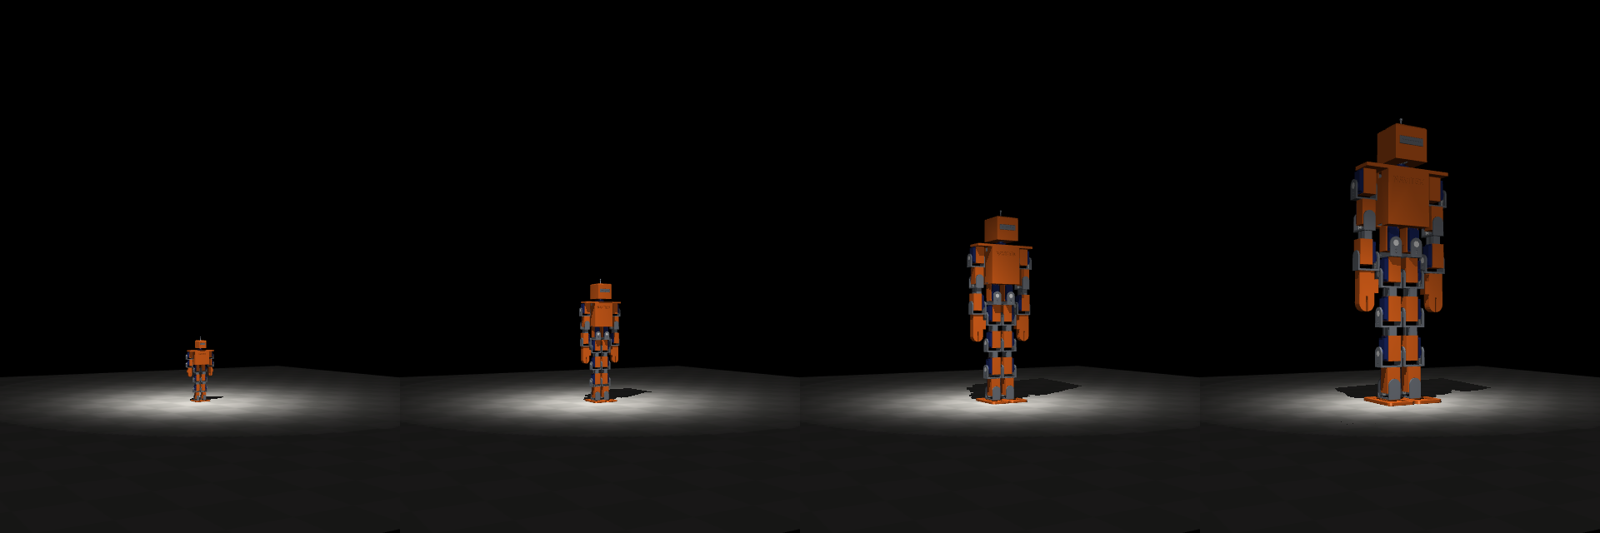
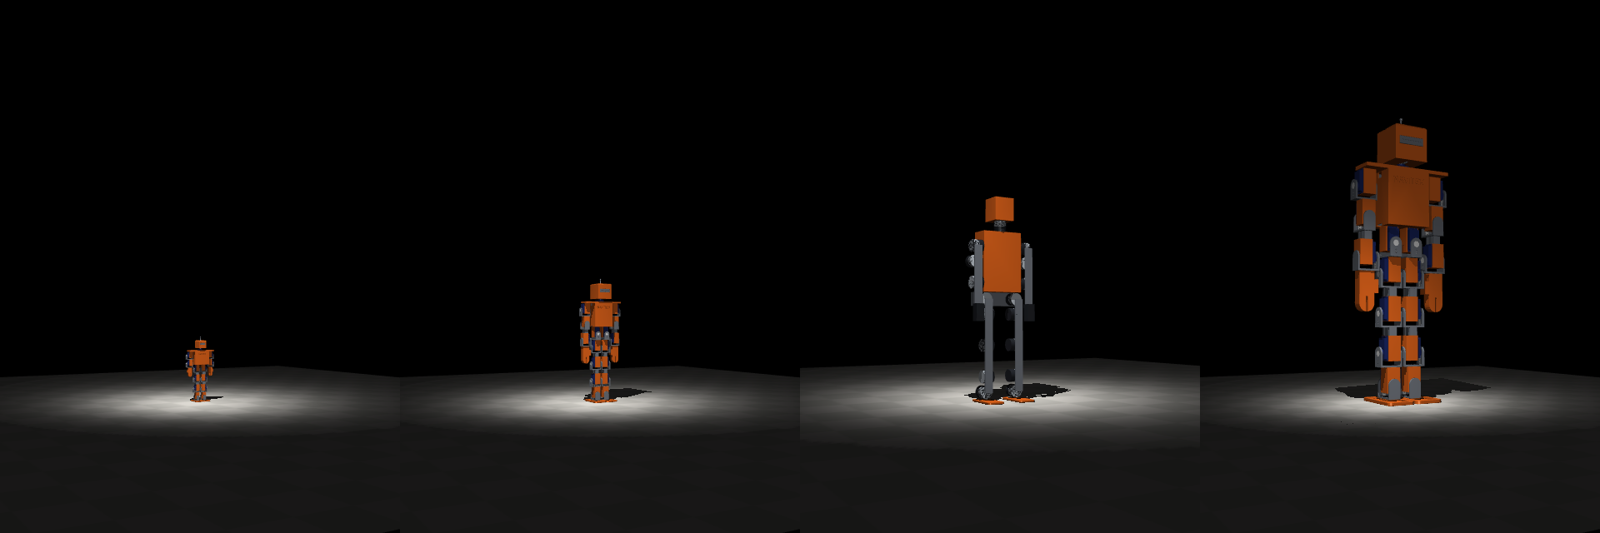
Navitek N1, N2, N3 : audit des chiffres (B29) — total de N1 recalculé (484 à 577 $), plages de couple de N2 tirées des JSON, coût tout imprimé de N3 (1 000 à 3 300 $), image des quatre robots avec le N2 de la CAO, textes périmés à jour

Changed region(s): [[0.5, 0.3602, 0.75, 0.8105]]

diff --git a/navitek/n2/index.html b/navitek/n2/index.html
@@ -4,13 +4,13 @@
 <meta charset="UTF-8">
 <meta name="viewport" content="width=device-width, initial-scale=1.0">
 <title>Navitek N2, concept d'un humanoïde d'un mètre à actionneurs imprimés</title>
-<meta name="description" content="Navitek N2, concept : un humanoïde d'environ un mètre dont les actionneurs à réducteur cycloïdal 16:1 s'impriment. Un actionneur et une jambe en CAO, le couple de chaque articulation tiré d'une simulation. Rien n'est imprimé.">
+<meta name="description" content="Navitek N2, concept : un humanoïde d'environ un mètre dont les actionneurs à réducteur cycloïdal 16:1 s'impriment. L'actionneur et le robot entier en CAO, le couple de chaque articulation tiré d'une simulation. Rien n'est imprimé.">
 <link rel="icon" href="/favicon.svg" type="image/svg+xml">
 <link rel="icon" href="/favicon-32.png" type="image/png" sizes="32x32">
 <link rel="apple-touch-icon" href="/apple-touch-icon.png">
 <meta name="theme-color" content="#0b1f3a">
 <meta property="og:title" content="Navitek N2, concept d'un humanoïde d'un mètre">
-<meta property="og:description" content="Un actionneur imprimé à réducteur cycloïdal et une jambe, avec le couple demandé tiré d'une simulation. Concept, pas encore imprimé.">
+<meta property="og:description" content="Un actionneur imprimé à réducteur cycloïdal et le robot entier en CAO, avec le couple demandé tiré d'une simulation. Concept, pas encore imprimé.">
 <meta property="og:type" content="website">
 <meta property="og:url" content="https://ymiaconseil.com/navitek/n2/">
 <link rel="canonical" href="https://ymiaconseil.com/navitek/n2/">
@@ -201,7 +201,7 @@ footer p{margin:0;max-width:none}
     <p>À un mètre, <strong>le seul projet ouvert que nous ayons trouvé qui imprime ses actionneurs est le Berkeley Humanoid Lite</strong> (Chi et al., RSS 2025)&nbsp;:
       22 réducteurs cycloïdaux imprimés sur un plateau de 200&nbsp;mm, pour moins de 5&nbsp;000&nbsp;$&nbsp;US au total, environ 133&nbsp;$ l'actionneur au plus bas. Sa taille est donnée à
       environ un mètre et 16&nbsp;kg par un article, 80&nbsp;cm par un autre&nbsp;: nous ne l'avons pas vérifiée dans l'article. Les autres&nbsp;: l'Unitree R1 (1,21&nbsp;m, 4&nbsp;900 à 5&nbsp;900&nbsp;$, fermé),
-      Poppy (85&nbsp;cm, servos Dynamixel du commerce), K-Scale (Z-Bot de 40&nbsp;cm, K-Bot de 1,4&nbsp;m à 8&nbsp;999&nbsp;$).</p>
+      Poppy (83 à 85&nbsp;cm, servos Dynamixel du commerce), K-Scale (Z-Bot de 40 à 46&nbsp;cm, K-Bot de 1,4&nbsp;m à 8&nbsp;999&nbsp;$).</p>
 
     <h2>L'actionneur</h2>
     <p class="sous">Réducteur cycloïdal 16:1 &middot; boîtier de 72&nbsp;mm &middot; tient sur un plateau de 200&nbsp;mm</p>
@@ -221,7 +221,7 @@ footer p{margin:0;max-width:none}
 
     <h2>Le couple que la marche demande</h2>
     <p class="sous">Simulation à l'échelle &middot; couple moyen / pic en N·m, jambe gauche &middot; cahier R-040</p>
-    <p>Le modèle est <strong>le robot de N1 agrandi à un mètre</strong> (15&nbsp;kg, dont 550&nbsp;g estimés par actionneur), avec des actionneurs sans limite de couple&nbsp;: on mesure ce que le mouvement
+    <p>Le modèle est <strong>le robot de N1 agrandi à un mètre</strong> (14,7&nbsp;kg, dont 550&nbsp;g estimés par actionneur), avec des actionneurs sans limite de couple&nbsp;: on mesure ce que le mouvement
       <em>demande</em>. La même marche à quinze réglages que pour N1 a été cherchée trois fois sans plafond, puis avec un plafond de 55&nbsp;N·m, puis de 18&nbsp;N·m.
       Aucune marche ne tombe.</p>
     <figure class="video">
@@ -230,17 +230,18 @@ footer p{margin:0;max-width:none}
       <figcaption>Le robot de N1 agrandi, plafonné à 18&nbsp;N·m par articulation (graine 2)&nbsp;: 12&nbsp;s. Un pas lent.</figcaption>
     </figure>
     <div class="defile"><table><thead><tr><th>Série</th><th>Graine</th><th>Avance, 12 s</th><th>Hanche, côté</th><th>Hanche, avant</th><th>Genou</th><th>Cheville, avant</th><th>Cheville, côté</th></tr></thead><tbody><tr><td class="n">sans plafond</td><td class="n">1</td><td class="n">98&nbsp;cm</td><td class="n">41&nbsp;/&nbsp;131</td><td class="n">3&nbsp;/&nbsp;14</td><td class="n">3&nbsp;/&nbsp;20</td><td class="n">4&nbsp;/&nbsp;22</td><td class="n">10&nbsp;/&nbsp;57</td></tr><tr><td class="n">sans plafond</td><td class="n">2</td><td class="n">127&nbsp;cm</td><td class="n">41&nbsp;/&nbsp;135</td><td class="n">4&nbsp;/&nbsp;15</td><td class="n">4&nbsp;/&nbsp;14</td><td class="n">5&nbsp;/&nbsp;22</td><td class="n">8&nbsp;/&nbsp;47</td></tr><tr><td class="n">sans plafond</td><td class="n">3</td><td class="n">33&nbsp;cm</td><td class="n">22&nbsp;/&nbsp;66</td><td class="n">3&nbsp;/&nbsp;10</td><td class="n">4&nbsp;/&nbsp;8</td><td class="n">5&nbsp;/&nbsp;12</td><td class="n">7&nbsp;/&nbsp;38</td></tr><tr><td class="n">plafond 55 N·m</td><td class="n">1</td><td class="n">94&nbsp;cm</td><td class="n">24&nbsp;/&nbsp;55</td><td class="n">5&nbsp;/&nbsp;11</td><td class="n">5&nbsp;/&nbsp;13</td><td class="n">5&nbsp;/&nbsp;26</td><td class="n">9&nbsp;/&nbsp;55</td></tr><tr><td class="n">plafond 55 N·m</td><td class="n">2</td><td class="n">62&nbsp;cm</td><td class="n">5&nbsp;/&nbsp;14</td><td class="n">5&nbsp;/&nbsp;21</td><td class="n">5&nbsp;/&nbsp;19</td><td class="n">8&nbsp;/&nbsp;50</td><td class="n">4&nbsp;/&nbsp;21</td></tr><tr><td class="n">plafond 55 N·m</td><td class="n">3</td><td class="n">28&nbsp;cm</td><td class="n">21&nbsp;/&nbsp;55</td><td class="n">5&nbsp;/&nbsp;14</td><td class="n">3&nbsp;/&nbsp;8</td><td class="n">4&nbsp;/&nbsp;19</td><td class="n">6&nbsp;/&nbsp;21</td></tr><tr><td class="n">plafond 18 N·m</td><td class="n">1</td><td class="n">28&nbsp;cm</td><td class="n">8&nbsp;/&nbsp;18</td><td class="n">7&nbsp;/&nbsp;18</td><td class="n">8&nbsp;/&nbsp;17</td><td class="n">8&nbsp;/&nbsp;18</td><td class="n">4&nbsp;/&nbsp;18</td></tr><tr><td class="n">plafond 18 N·m</td><td class="n">2</td><td class="n">57&nbsp;cm</td><td class="n">10&nbsp;/&nbsp;18</td><td class="n">3&nbsp;/&nbsp;13</td><td class="n">3&nbsp;/&nbsp;10</td><td class="n">4&nbsp;/&nbsp;18</td><td class="n">5&nbsp;/&nbsp;18</td></tr><tr><td class="n">plafond 18 N·m</td><td class="n">3</td><td class="n">31&nbsp;cm</td><td class="n">5&nbsp;/&nbsp;15</td><td class="n">8&nbsp;/&nbsp;18</td><td class="n">7&nbsp;/&nbsp;14</td><td class="n">8&nbsp;/&nbsp;18</td><td class="n">3&nbsp;/&nbsp;10</td></tr></tbody></table></div>
-    <p class="sources">Les bras demandent au plus 2,7&nbsp;N·m et le cou 0,1&nbsp;N·m. Accroupi sur deux jambes à 90° de genou&nbsp;: le genou demande 3,6&nbsp;N·m en moyenne,
+    <p class="sources">Les bras demandent au plus 3,1&nbsp;N·m et le cou 0,1&nbsp;N·m. Accroupi sur deux jambes à 90° de genou&nbsp;: le genou demande 3,6&nbsp;N·m en moyenne,
       6,8 au pic. Modèle simplifié&nbsp;; masses d'actionneur et d'électronique estimées&nbsp;; marches réglées sur le modèle lui-même.</p>
 
     <h3>Ce que ça dit du réducteur imprimé</h3>
     <ul class="liste">
       <li><b>Ce qu'on a trouvé sur les réducteurs imprimés.</b><span>3,43&nbsp;N·m mesurés comme couple de service pour un 13:1 amateur&nbsp;; 18,3&nbsp;N·m au maximum pour un disque de PLA 24:1 (taille inconnue)&nbsp;;
         55&nbsp;N·m de pointe pour un 20:1 du projet OpenCycloid. Ce sont des chiffres de sources différentes, de tailles différentes, qu'on ne peut pas comparer au nôtre.</span></li>
-      <li><b>Les bras et le cou</b><span>demandent au plus 2,7&nbsp;N·m&nbsp;: à portée d'un réducteur imprimé.</span></li>
-      <li><b>La hanche de côté et les chevilles</b><span>demandent des moyennes de 5 à 41&nbsp;N·m et des pics de 15 à 135&nbsp;N·m&nbsp;: bien au-delà du couple de service trouvé. <strong>Il faut un banc, ou un réducteur
+      <li><b>Les bras et le cou</b><span>demandent au plus 3,1&nbsp;N·m&nbsp;: à portée d'un réducteur imprimé.</span></li>
+      <li><b>Les articulations les plus chargées.</b><span>La hanche de côté demande 5 à 41&nbsp;N·m en moyenne et 14 à 135&nbsp;N·m au pic&nbsp;; les chevilles, 3 à 10&nbsp;N·m
+        en moyenne et 10 à 57&nbsp;N·m au pic&nbsp;: au-delà du couple de service trouvé, surtout au pic. <strong>Il faut un banc, ou un réducteur
         du commerce à ces articulations.</strong></span></li>
-      <li><b>Le genou et la hanche d'avant</b><span>demandent 3 à 8&nbsp;N·m en moyenne&nbsp;: au-dessus de 3,4&nbsp;N·m, en dessous de 18&nbsp;N·m. Indécidable sur ces sources.</span></li>
+      <li><b>Le genou et la hanche d'avant</b><span>demandent 3 à 8&nbsp;N·m en moyenne&nbsp;: autour de 3,4&nbsp;N·m, en dessous de 18&nbsp;N·m. Indécidable sur ces sources.</span></li>
     </ul>
 
     <h2>Le robot entier, dessiné</h2>
@@ -262,7 +263,7 @@ footer p{margin:0;max-width:none}
         Les deux modèles diffèrent par plusieurs choses à la fois (masses, centre de masse, écart des pieds)&nbsp;: nous n'avons pas isolé la cause. <strong>Les deux chiffres sont à garder en tête.</strong></span></li>
       <li><b>La cheville d'avant</b><span>est maintenant la plus exposée au pic (19 à 28&nbsp;N·m sans plafond).</span></li>
       <li><b>Une marche fragile.</b><span>Rejouer les mêmes réglages après avoir changé de quelques pour cent l'inertie des segments a fait passer l'avance de 89 à 37&nbsp;cm. Ces couples sont l'ordre de grandeur
-        d'une marche par graine, pas un budget&nbsp;; une marche réglée sur huit variantes du modèle à la fois (électronique, frottement, inertie, raideur&hellip;) tient aux huit (quatre réglages sur quatre, 15 à 57&nbsp;cm en 12&nbsp;s, couples du même ordre)&nbsp;: elle est plus courte, mais elle se transporte mieux.</span></li>
+        d'une marche par graine, pas un budget&nbsp;; une marche réglée sur 8 variantes du modèle à la fois (électronique, frottement, inertie, raideur&hellip;) tient aux 8 (4 réglages sur 4, 17 à 57&nbsp;cm en 12&nbsp;s sur le modèle nominal, au moins 15&nbsp;cm sur chaque variante, couples du même ordre)&nbsp;: elle est plus courte, mais elle se transporte mieux.</span></li>
     </ul>
 
     <h2>Ce qu'on ne sait pas</h2>
@@ -275,13 +276,13 @@ footer p{margin:0;max-width:none}
     </ul>
 
     <h2>La sécurité d'abord</h2>
-    <p>À un mètre et quinze kilos, un robot qui tombe blesse. Aucune norme publiée ne dit à partir de quel couple ou de quelle masse un humanoïde est sûr (ISO 13482:2014 le dit elle-même pour les impacts&nbsp;; ISO 25785-1, pour les robots à
+    <p>À un mètre et quatorze kilos, un robot qui tombe blesse. Aucune norme publiée ne dit à partir de quel couple ou de quelle masse un humanoïde est sûr (ISO 13482:2014 le dit elle-même pour les impacts&nbsp;; ISO 25785-1, pour les robots à
       stabilité active, n'est pas encore publiée à notre connaissance). Navitek N2 ne se dira donc pas «&nbsp;conforme&nbsp;». Il prévoit un arrêt d'urgence matériel qui coupe la puissance sans logiciel, une limite de couple et
       de vitesse dans chaque variateur, des actionneurs qu'on retourne à la main, des carters, et des premiers essais sur un portique, loin de tout public.</p>
 
     <h2>Et après</h2>
     <p>Imprimer <strong>un seul actionneur</strong> et le mesurer sur un banc&nbsp;: couple de rupture, couple continu, jeu, température. Ensuite seulement, décider articulation par articulation entre l'imprimé et le commerce,
-      régler la marche sur plusieurs modèles, imprimer une jambe. <a class="lien" href="/navitek/n1/">N1</a> (63&nbsp;cm, servos à bus) est la version qui peut s'imprimer d'abord&nbsp;; N3, la taille d'un adulte, est décrit dans
+      corriger le modèle par ces mesures et y régler la marche de nouveau, imprimer une jambe. <a class="lien" href="/navitek/n1/">N1</a> (63&nbsp;cm, servos à bus) est la version qui peut s'imprimer d'abord&nbsp;; N3, la taille d'un adulte, est décrit dans
       <a class="lien" href="/navitek/n3/">sa page</a>.</p>
 
     <h2 id="fichiers">Les fichiers</h2>
@@ -290,7 +291,7 @@ footer p{margin:0;max-width:none}
       <a class="fichier" href="fichiers/navitek-n2-stl.zip" download><span class="n">Les pièces imprimées en STL</span>
         <span class="d">Boîtier, bride, disques, platines, pied.</span><span class="u">0,3&nbsp;Mo &middot; ZIP</span></a>
       <a class="fichier" href="fichiers/navitek-n2-step.zip" download><span class="n">La CAO en STEP, et sa source</span>
-        <span class="d">Chaque pièce, la jambe, et <code>n2.py</code>, le script FreeCAD qui les dessine.</span><span class="u">3,4&nbsp;Mo &middot; ZIP</span></a>
+        <span class="d">Chaque pièce, la jambe, <code>n2.py</code> et <code>n2_robot.py</code>, les scripts FreeCAD qui les dessinent (le STEP du robot entier se régénère).</span><span class="u">3,4&nbsp;Mo &middot; ZIP</span></a>
       <a class="fichier" href="fichiers/navitek-n2-simulation.zip" download><span class="n">La simulation à l'échelle</span>
         <span class="d">Le modèle, les scripts des essais et les résultats en JSON.</span><span class="u">0,2&nbsp;Mo &middot; ZIP</span></a>
     </div>

diff --git a/navitek/n3/index.html b/navitek/n3/index.html
@@ -166,9 +166,9 @@ footer p{margin:0;max-width:none}
 
   <div class="large">
     <figure class="video">
-      <img src="quatre-robots.png" alt="Les quatre robots de la série Navitek de la même taille de caméra : N0 de 33 centimètres, N1 de 63 centimètres, N2 d'un mètre et N3 d'un mètre et demi" style="display:block;width:100%;height:auto;background:#000;border:1px solid var(--line)">
-      <figcaption>De gauche à droite&nbsp;: N0 (33&nbsp;cm), N1 (63,5&nbsp;cm), N2 (1&nbsp;m) et N3 (1,5&nbsp;m), à la même échelle. N0 et N1 sont des CAO&nbsp;; <strong>N2 et N3 sont le robot de N1 agrandi</strong>, un modèle
-        de simulation, pas un dessin de ces versions.</figcaption>
+      <img src="quatre-robots.png" alt="Les quatre robots de la série Navitek vus par la même caméra : N0 de 33 centimètres, N1 de 63 centimètres, N2 d'un mètre six et N3 d'un mètre et demi" style="display:block;width:100%;height:auto;background:#000;border:1px solid var(--line)">
+      <figcaption>De gauche à droite&nbsp;: N0 (33&nbsp;cm), N1 (63,5&nbsp;cm), N2 (1,06&nbsp;m) et N3 (1,5&nbsp;m), à la même échelle. N0, N1 et N2 sont tirés de leur CAO&nbsp;; <strong>N3 est le robot de N1 agrandi</strong>, un modèle
+        de simulation, pas un dessin de N3.</figcaption>
     </figure>
     <div class="chiffres">
       <div><b>1,4 à 1,6&nbsp;m</b><span>de haut</span></div>
@@ -213,7 +213,7 @@ footer p{margin:0;max-width:none}
     <p class="sous">Des ordres de grandeur d'analystes, pas des devis</p>
     <p>Dans un actionneur rotatif de robot humanoïde, un fournisseur donne la répartition du coût&nbsp;: le réducteur harmonique environ 36&nbsp;%, le capteur de couple 30&nbsp;%, le moteur sans cadre 13,5&nbsp;%. Un réducteur harmonique haut de gamme se
       chiffre à 800 à 1&nbsp;500&nbsp;$&nbsp;; un jeu planétaire à un cinquième environ&nbsp;; les actionneurs planétaires à faible rapport de l'Unitree G1 seraient autour de 300&nbsp;$ pièce (estimation d'un site, pas un prix de catalogue)&nbsp;;
-      à l'autre bout, un actionneur imprimé ouvert est estimé de 40 à 133&nbsp;$. Pour 25 articulations, cela donne <strong>de l'ordre de 1&nbsp;000&nbsp;$ (tout imprimé) à plusieurs dizaines de milliers de dollars (hanches et genoux harmoniques avec capteur de couple)</strong>.
+      à l'autre bout, un actionneur imprimé ouvert est estimé de 40&nbsp;$ (un projet de passionné) à 133&nbsp;$ (le Berkeley Humanoid Lite). Pour 25 articulations, cela donne <strong>de 1&nbsp;000 à 3&nbsp;300&nbsp;$ environ (tout imprimé) à plusieurs dizaines de milliers de dollars (hanches et genoux harmoniques avec capteur de couple)</strong>.
       Ce n'est pas un prix&nbsp;: c'est l'étendue de ce qu'on ne sait pas.</p>
 
     <h2>Le couple à 1,5 m, selon une simulation simplifiée</h2>
@@ -221,7 +221,7 @@ footer p{margin:0;max-width:none}
     <p>Le modèle est <strong>le robot de N1 agrandi à 1,5&nbsp;m</strong> (structure plus légère d'un facteur 0,6 par hypothèse, 900&nbsp;g par actionneur et 3,5&nbsp;kg de pile et d'électronique, estimés), à 17 articulations
       (ni les mains ni la rotation de la hanche ne sont modélisées), avec des actionneurs sans limite de couple&nbsp;: on mesure ce que le mouvement demande. La loi d'échelle (couple proportionnel à la masse et à la longueur)
       prévoit environ 2,7 fois les couples de N2&nbsp;; elle se vérifie sur la statique&nbsp;:</p>
-    <div class="defile"><table><thead><tr><th>Genou</th><th>N2 : genou moyen / pic</th><th>N3 : genou moyen / pic</th></tr></thead><tbody><tr><td class="n">40°</td><td class="n">1,6&nbsp;/&nbsp;2,6</td><td class="n">4,8&nbsp;/&nbsp;6,2</td></tr><tr><td class="n">70°</td><td class="n">2,8&nbsp;/&nbsp;5</td><td class="n">8&nbsp;/&nbsp;12</td></tr><tr><td class="n">90°</td><td class="n">3,6&nbsp;/&nbsp;6,8</td><td class="n">9,8&nbsp;/&nbsp;16,4</td></tr></tbody></table></div>
+    <div class="defile"><table><thead><tr><th>Genou</th><th>N2 (N1 agrandi, R-040) : genou moyen / pic</th><th>N3 : genou moyen / pic</th></tr></thead><tbody><tr><td class="n">40°</td><td class="n">1,6&nbsp;/&nbsp;2,6</td><td class="n">4,8&nbsp;/&nbsp;6,2</td></tr><tr><td class="n">70°</td><td class="n">2,8&nbsp;/&nbsp;5</td><td class="n">8&nbsp;/&nbsp;12</td></tr><tr><td class="n">90°</td><td class="n">3,6&nbsp;/&nbsp;6,8</td><td class="n">9,8&nbsp;/&nbsp;16,4</td></tr></tbody></table></div>
     <p class="sources">Accroupi sur deux jambes. Moyen sur la dernière seconde, pic après la mise en place.</p>
     <figure class="video">
       <video controls muted playsinline loop preload="metadata" aria-label="Simulation de la marche du N3 simplifié">
@@ -249,7 +249,7 @@ footer p{margin:0;max-width:none}
     <p class="sous">Licence CC BY 4.0&nbsp;: refaites les essais chez vous</p>
     <div class="fichiers">
       <a class="fichier" href="fichiers/navitek-n3-simulation.zip" download><span class="n">La simulation simplifiée</span>
-        <span class="d">Le modèle (le robot de N1 agrandi), les scripts des essais et leurs résultats en JSON.</span><span class="u">0&nbsp;Mo &middot; ZIP</span></a>
+        <span class="d">Le modèle (le robot de N1 agrandi), les scripts des essais et leurs résultats en JSON.</span><span class="u">23&nbsp;ko &middot; ZIP</span></a>
     </div>
   </div>
 

diff --git a/navitek/n1/index.html b/navitek/n1/index.html
@@ -202,12 +202,12 @@ footer p{margin:0;max-width:none}
     <h2>Ce qui change par rapport à N0</h2>
     <p class="sous">Le même principe, deux fois plus grand, et des servos qui disent où ils sont</p>
     <ul class="liste">
-      <li><b>Des servos qui parlent.</b><span>Les SG90 de N0 obéissent à l'aveugle. Le STS3215 se branche sur un seul fil commun aux 17
+      <li><b>Des servos qui parlent.</b><span>Les SG90 et MG90S de N0 obéissent à l'aveugle. Le STS3215 se branche sur un seul fil commun aux 17
         servos et renvoie sa position (4096 pas par tour), sa charge, sa tension et sa température. Le robot peut enfin mesurer son corps.</span></li>
       <li><b>Dix-sept articulations au lieu de treize.</b><span>Chaque hanche gagne un mouvement de côté (le roulis), chaque épaule aussi&nbsp;:
         le robot peut balancer son poids d'un pied à l'autre au lieu de pencher la cheville. Il manque encore la rotation de la hanche, pour tourner sur place.</span></li>
       <li><b>Une centrale inertielle.</b><span>Un BNO055 dans le torse dit au robot de quel côté il penche. Dans la simulation, c'est ce retour d'information
-        qui fait avancer N1 près de deux fois plus loin que la même marche aveugle (plus bas).</span></li>
+        qui fait avancer N1 1,8 fois plus loin, en moyenne, que la même marche aveugle (plus bas).</span></li>
       <li><b>Un cerveau en deux étages.</b><span>Le Pico commande les servos et lit la centrale&nbsp;; il porte la sécurité. Un Raspberry Pi Zero 2&nbsp;W
         facultatif, relié au Pico, ajoute la caméra de la tête et les programmes qui apprennent. <strong>Le robot marche sans lui.</strong></span></li>
     </ul>
@@ -232,7 +232,8 @@ footer p{margin:0;max-width:none}
       <li><b>Le bus.</b><span>Un seul UART du Pico, TX et RX réunis par une résistance, l'écho lu et rejeté&nbsp;; identifiants 1 à 17, réglés un à un avec un
         PC et un adaptateur Feetech FE-URT-1. <em>À valider sur le banc</em>&nbsp;: le Pico n'a pas de demi-duplex matériel confirmé.</span></li>
       <li><b>La pile.</b><span>Une 3S (9 à 12,6&nbsp;V), avec une carte de protection et un fusible, et un interrupteur d'arrêt d'urgence. Un servo de
-        7,4&nbsp;V n'accepte pas une 3S&nbsp;: ne pas mélanger les versions. Le Pico a son propre régulateur 5&nbsp;V.</span></li>
+        7,4&nbsp;V n'accepte pas une 3S&nbsp;: ne pas mélanger les versions. Le Pico est alimenté par un régulateur abaisseur 5&nbsp;V à part, séparé du rail
+        des servos, <strong>jamais directement par la 3S</strong> (son entrée accepte au plus 5,5&nbsp;V).</span></li>
       <li><b>La centrale.</b><span>Un BNO055 (fusion à bord, 100&nbsp;Hz au plus) plutôt qu'un MPU-6050, jugé en fin de vie. Si 100&nbsp;Hz ne suffisait pas à
         l'équilibre, on lirait le gyroscope brut et on filtrerait soi-même.</span></li>
     </ul>
@@ -404,7 +405,7 @@ footer p{margin:0;max-width:none}
       <tr><td><b>Raspberry Pi Zero 2 W</b> (facultatif)</td><td class="n">0 ou 1</td><td class="n">15 à 17&nbsp;$</td><td>prix de lancement 15&nbsp;$ ; SparkFun 17,25&nbsp;$</td></tr>
       <tr class="repond"><td><b>Pile 3S, carte de protection, fusible, interrupteur, adaptateur FE-URT-1, vis M3, PLA, fils</b></td><td class="n">&mdash;</td><td class="n">non sourcé</td><td>à relever avant de commander</td></tr>
     </tbody></table></div>
-    <p class="sources"><strong>Au moins 550&nbsp;$ US</strong> pour les servos, le Pico et la centrale (17 servos entre 442 et 533&nbsp;$), sans la pile, la protection,
+    <p class="sources"><strong>De 484 à 577&nbsp;$ US</strong> pour les servos, le Pico et la centrale (17 servos entre 442 et 533&nbsp;$), sans la pile, la protection,
       les vis, le plastique, la livraison ni les droits de douane. C'est un ordre de grandeur, pas une soumission&nbsp;: les prix changent et plusieurs fiches étaient en rupture de stock.</p>
 
     <h2>Et après</h2>
@@ -423,7 +424,7 @@ footer p{margin:0;max-width:none}
       <a class="fichier" href="fichiers/navitek-n1-step.zip" download><span class="n">La CAO en STEP, et sa source</span>
         <span class="d">Chaque pièce, l'assemblage, et <code>n1.py</code>, le script FreeCAD qui les dessine (les cotes du servo à mesurer sont en tête).</span><span class="u">1&nbsp;Mo &middot; ZIP</span></a>
       <a class="fichier" href="fichiers/navitek-n1-simulation.zip" download><span class="n">La simulation MuJoCo</span>
-        <span class="d">Le modèle, les scripts des essais et leurs résultats en JSON&nbsp;: refaites-les chez vous.</span><span class="u">0&nbsp;Mo &middot; ZIP</span></a>
+        <span class="d">Le modèle, les scripts des essais et leurs résultats en JSON&nbsp;: refaites-les chez vous.</span><span class="u">49&nbsp;ko &middot; ZIP</span></a>
     </div>
   </div>
 
